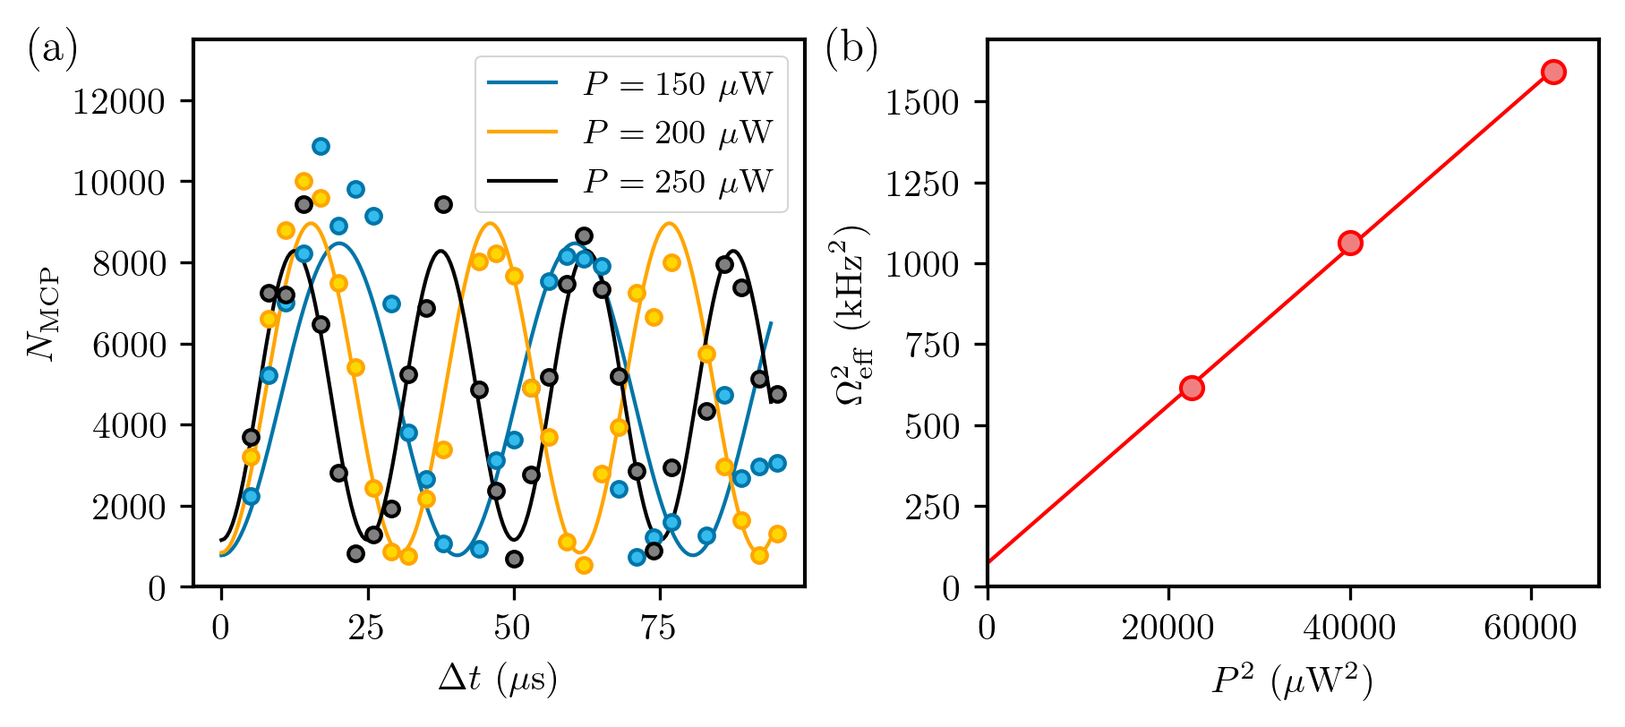
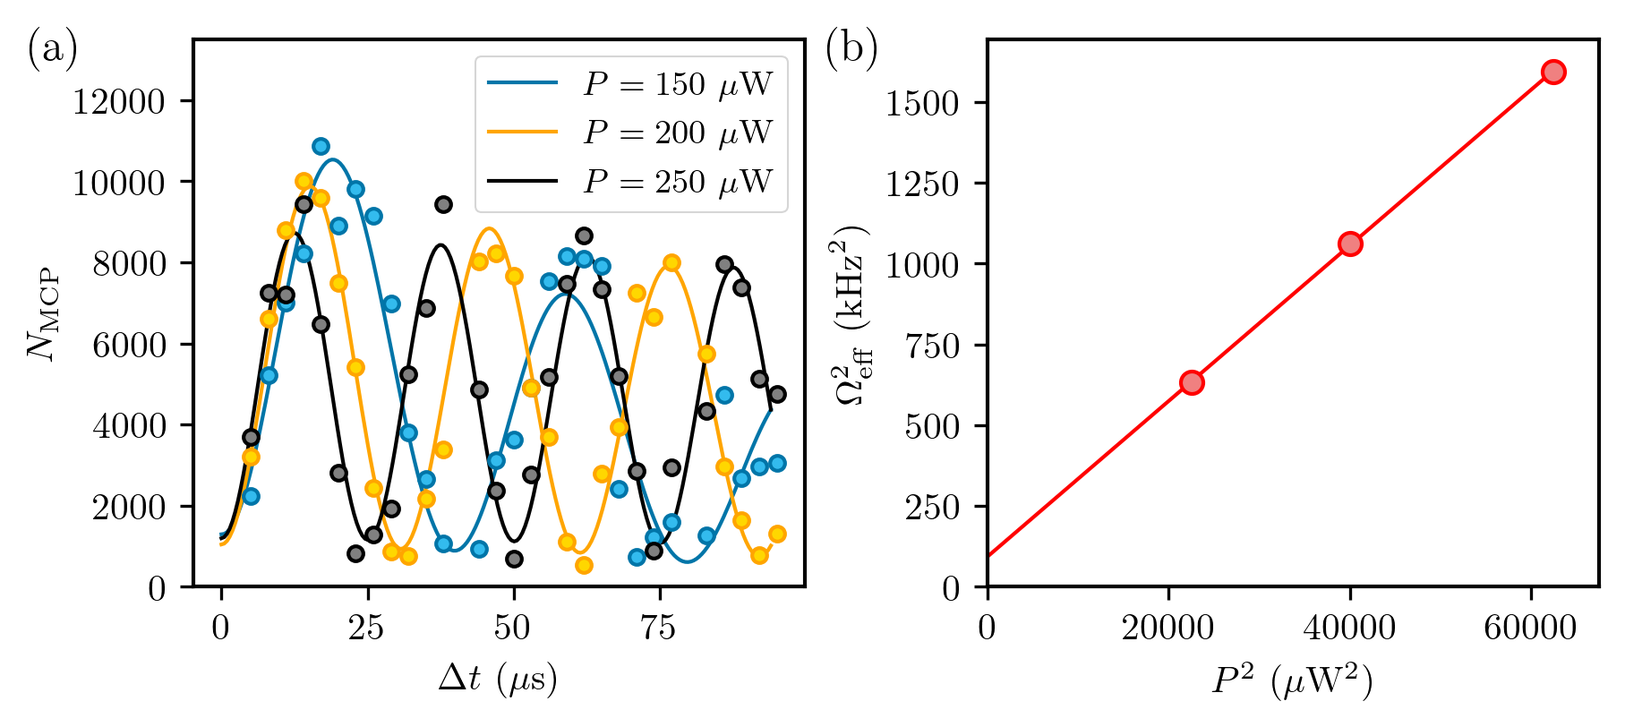
chapitre 3

diff --git a/Chapters/Chapter3_MomentumDistritbution_lattice_gas.tex b/Chapters/Chapter3_MomentumDistritbution_lattice_gas.tex
@@ -48,8 +48,8 @@ To begin the experimental sequence, we first need to excite Helium atoms in the 
 
 \begin{figure}
     \centering
-    \includegraphics[width=0.9\textwidth]{Fig/Chapter3/source.png}
-    \caption[Metastable helium source]{Metastable helium source. (a) Drawing of the source apparatus. Helium atoms (blue arrows) are sent into a glass tube glued into a pierced boron-nitride (BN) piece. A plasma forms between the high voltage needle and the grounded skimmer, exciting the atoms in the metastable state (red arrows). The boron nitride is cooled by thermal contact with a copper (Cu) piece in which liquid nitrogen flows, allowing to significantly reduce the speed of the atoms. (b) Photograph of the source apparatus. The red square illustrates what is represented on the drawing. \NOTE{fleche noire}}
+    \includegraphics[width=0.9\textwidth]{Fig/Chapter3/source_ok.png}
+    \caption[Metastable helium source]{Metastable helium source. (a) Drawing of the source apparatus. Helium atoms (blue arrows) are sent into a glass tube glued into a pierced boron-nitride (BN) piece. A plasma forms between the high voltage needle and the grounded skimmer, exciting the atoms in the metastable state (red arrows). The boron nitride is cooled by thermal contact with a copper (Cu) piece in which liquid nitrogen flows, allowing to significantly reduce the speed of the atoms. (b) Photograph of the source apparatus. The red square illustrates what is represented on the drawing.}
     \label{fig:source}
 \end{figure}
 
@@ -57,8 +57,8 @@ The source is a quite sensitive part of the experimental apparatus and was often
 
 \begin{itemize}
     \item The needle has the tendency to deteriorate over time. When this happens, some metallic particles fall from the needle and end up clogging the small hole in Boron-Nitride, preventing the atoms to flow through. We replaced the needle with a standard metallic cylinder, hoping that it would not deteriorate as fast. While we still could form the plasma without the needle shape, the cylinder still deteriorates, requiring regular operations every few months to unclog the Boron-Nitride piece.
-    \item The diameter of the Boron-Nitride piece needs to be very well adapted to the inner diameter of the copper piece to ensure a good thermal contact and to prevent the Boron-Nitride from moving when temperature changes. \NOTE{current plasma}
-    \item The glue holding the glass tube in the Boron-Nitride can contract at low temperatures and add mechanical constraints on the glass tube, sometimes breaking it and causing unwanted atom leakage. The solution is to use an ``elastic'' glue that can deform without adding too much stress on the tube. 
+    \item The diameter of the Boron-Nitride piece needs to be very well adapted to the inner diameter of the copper piece to ensure a good thermal contact and to prevent the Boron-Nitride from moving when temperature changes. This also helps to stabilize the current of the power supply to $\sim 11 \ \rm{mA}$ at which the plasma is much more stable.
+    \item The glue holding the glass tube in the Boron-Nitride can contract at low temperatures and add mechanical constraints on the glass tube, sometimes breaking it and causing unwanted atom leakage. The solution is to use an ``elastic'' glue that can deform when temperature changes without adding too much stress on the tube. 
 \end{itemize}
 
 We now move on the next experimental step, laser cooling.
@@ -66,7 +66,7 @@ We now move on the next experimental step, laser cooling.
 
 \subsection{Laser cooling}
 
-Our experimental cooling sequence uses two types of laser cooling: Doppler and sub-Doppler cooling. Doppler cooling revolves around the absorption of resonant, counter-propagating photons by a two-level atom, reducing its momentum. The absorbed photons are re-emitted spontaneously in a random direction of space, meaning that after a large number of absorption/emission cycles, the variation of momentum induced by spontaneous emission averages out. The only contribution is thus the one of absorption contributing to slow the atom down. The name Doppler cooling descends from the fact that the detuning $\delta$ of the laser beam is set to match the resonant condition $\delta = \bm{k} \cdot \bm{v}$ set by the Doppler effect, with $\bm{k}$ the momentum of the laser photons and $\bm{v}$ the speed of the atoms. This has the advantage that the atoms that have already been cooled cannot resonantly absorb photons anymore, preventing them from being re-heated. The lowest temperature accessible with Doppler cooling $T_{\rm{D}}$ is set by the number of absorption/emission cycles per unit of time, \ie by the linewidth of the excited state $\Gamma$ \cite{chang2014three}:
+Our experimental cooling sequence uses two types of laser cooling: Doppler and sub-Doppler cooling. Doppler cooling revolves around the absorption of resonant, counter-propagating photons by a two-level atom, reducing its momentum. The absorbed photons are re-emitted spontaneously in a random direction of space, meaning that after a large number of absorption/emission cycles, the variation of momentum induced by spontaneous emission averages out. The only contribution is thus the one of absorption contributing to slow the atom down. The name Doppler cooling descends from the fact that the detuning $\delta$ of the laser beam is set to compensate the Doppler effect $\delta = \bm{k} \cdot \bm{v}$, with $\bm{k}$ the momentum of the laser photons and $\bm{v}$ the speed of the atoms. This has the advantage that the atoms that have already been cooled cannot resonantly absorb photons anymore, preventing them from being re-heated. The lowest temperature accessible with Doppler cooling $T_{\rm{D}}$ is set by the number of absorption/emission cycles per unit of time, \ie by the linewidth of the excited state $\Gamma$ \cite{chang2014three}:
 
 \begin{equation}
     T_{\rm{D}} = \frac{\hbar \Gamma}{2 k_B}
@@ -395,7 +395,7 @@ There are therefore some wrongly reconstructed atoms that end up on $\pm 45^{\ci
 \begin{figure}
     \centering
     \includegraphics[width=0.6\textwidth]{Fig/Chapter3/saturation_cross.png}
-    \caption[Saturation cross]{Time integrated 2D MCP image illustrating the presence of a saturation cross at $\pm 45^{\circ}$. \NOTE{line}}
+    \caption[Saturation cross]{Time integrated 2D MCP image illustrating the presence of a saturation cross at $\pm 45^{\circ}$. The third ``line'' is not related to saturation effects and corresponds to evaporated atoms that can fall on the MCP at the same time than the BEC.}
     \label{fig:saturation_cross}
 \end{figure}
 
@@ -406,7 +406,7 @@ There are therefore some wrongly reconstructed atoms that end up on $\pm 45^{\ci
 
 As we have seen in the first sections of this chapter, the BEC is prepared in the magnetic-substate $m_J=1$. To make a proper measurement of the in-trap momentum of the atoms, it is absolutely crucial that their TOF trajectories are not perturbed, notably by interactions with magnetic fields. In that respect, it would be quite hard to shield the science chamber from every unwanted magnetic field on the large distance of $43 \ \rm{cm}$ on which we let the atoms fall to access the far-field regime of expansion. A solution to cancel these unwanted interactions is to transfer the atoms into the non-magnetic sub-state $m_J=0$. All non-transferred atoms are then removed by applying a strong magnetic gradient so that they do not reach the MCPs.
 
-When I started my PhD, the preferred method was to use a magnetic field bias to separate the different sub-states with the Zeeman effect and then drive the transition between $m_J=1$ and $m_J=0$ with a RF wave within the lowest-energy manyfold \cite{carcy_these,cayla_these}. However, the energy difference between the sub-states $m_J=1$ and $m_J=0$ and $m_J=0$ and $m_J=-1$ is the same. We therefore have a 3-level system with two resonant transitions and can only achieve a $50\%$ population transfer to $m_J=0$. This has a strong consequence: only half of the atoms at maximum can reach the detector, thus reducing the detection efficiency by a factor 2. This is particularly harmful for correlation measurements such as \kmk pairing as we need to detect the two atoms of the pair: losing a factor on the detection efficiency reduces the probability to detect a \kmk pair by a factor $2^2=4$. This calls to change the transfer scheme to achieve a $100\%$ (or close to) population transfer to the $m_J=0$ state.
+When I started my PhD, the preferred method was to use a magnetic field bias to separate the different sub-states with the Zeeman effect and then drive the transition between $m_J=1$ and $m_J=0$ with a RF wave within the lowest-energy manyfold \cite{carcy_these,cayla_these}. However, the energy difference between the sub-states $m_J=1$ and $m_J=0$ and $m_J=0$ and $m_J=-1$ is the same. We therefore have a 3-level system with two resonant transitions and can only achieve a $50\%$ population transfer to $m_J=0$. This has a strong consequence: only half of the atoms at maximum can reach the detector, thus reducing the detection efficiency by at least a factor 2. Even worse, the effective Rabi frequencies were limited by the highest accessible RF powers in our experiment. The pulse duration corresponding to the maximum transfer efficiency was then too large so that the transfer was perturbed by fluctuations of the magnetic field, forcing us to work with shorter pulse and therefore lower detection efficiencies. This is particularly harmful for correlation measurements such as \kmk pairing as we need to detect the two atoms of the pair: losing a factor $\alpha$ on the detection efficiency reduces the probability to detect a \kmk pair by a factor $\alpha^2$. This calls to change the transfer scheme to achieve a $100\%$ (or close to) population transfer to the $m_J=0$ state.
 
 To do so, we use an optical transfer scheme, a two-photon Raman transfer. While this was used on our experiment a few years back on the $2 \ ^3 S_1 \rightarrow 2 \ ^3 P_1$, it was abandoned as spontaneous emission effects were perturbing the measured momentum distribution to sufficiently high levels, harming the measurements conducted at the time. Nevertheless, our goal to detect \kmk pairs motivated us to build the required setup, with the notable addition of a third laser source allowing us to address the remaining transition $2 \ ^3 S_1 \rightarrow 2 \ ^3 P_0$, better suited for Raman transfer as we will later see.
 
@@ -417,25 +417,45 @@ To do so, we use an optical transfer scheme, a two-photon Raman transfer. While 
 
 % Raman scattering is an inelastic scattering process of a photon by an atom resulting in a modification of the internal state of the atom. 
 
-To understand what two-photon Raman transfer is, let us consider a lambda level structure with two ground states $\ket{g_1}$,$\ket{g_2}$ and one excited state $\ket{e}$ (see Fig.-\ref{fig:raman_level}). Raman scattering is an inelastic process in which the atom absorbs a first photon of frequency $\omega_1$ and re-emits a photon of frequency $\omega_2$, changing its internal state from $\ket{g_1}$ to $\ket{g_2}$. The absorbed photon is called the \textbf{pump} photon and the emitted one the \textbf{Stokes} photon. The energy difference between the absorbed and scattered photons corresponds to the energy difference $\Delta E$ between the two states $\ket{g_1}$ to $\ket{g_2}$. If the modes $\omega_1$ and $\omega_2$ are populated, for instance if we shine laser light on the atom at these two frequencies, the process can be stimulated as the probability to emit a photon in a given mode is more likely the more photons there are in the mode. It is therefore possible exploit this effect to realize a population transfer from the state $\ket{g_1}$ to the state $\ket{g_2}$.
+To understand what two-photon Raman transfer is, let us consider a lambda level structure with two ground states $\ket{g_1}$,$\ket{g_2}$ and one excited state $\ket{e}$ (see Fig.-\ref{fig:raman_level}). Raman scattering is an inelastic process in which the atom absorbs a first photon of frequency $\omega_1$ and re-emits a photon of frequency $\omega_2$, changing its internal state from $\ket{g_1}$ to $\ket{g_2}$. The absorbed photon is called the \textbf{pump} photon and the emitted one the \textbf{Stokes} photon. This process is resonant when the energy difference between the absorbed and scattered photons corresponds to the energy difference $\Delta E$ between the two states $\ket{g_1}$ to $\ket{g_2}$. If the modes $\omega_1$ and $\omega_2$ are populated, for instance if we shine laser light on the atom at these two frequencies, the process can be stimulated as the probability to emit a photon in a given mode is more likely the more photons there are in the mode. It is therefore possible exploit this effect to realize a population transfer from the state $\ket{g_1}$ to the state $\ket{g_2}$.
 
 % If the two lasers are not copropagating, this method can be used to to transfer momentum to the atoms and change their trajectory. As this is not something we want to do, we use to copropagating laser beams.
 
 \begin{figure}
     \centering
     \includegraphics[width=\textwidth]{Fig/Chapter3/raman_level.png}
-    \caption[Lambda level structure for two-photon Raman transfer]{Lambda level structure in which a two-photon Raman transfer can be used to transfer atoms from $\ket{g_1}$ to $\ket{g_2}$. \NOTE{ajouter RF}}
+    \caption[Lambda level structure for two-photon Raman transfer]{Lambda level structure in which a two-photon Raman transfer can be used to transfer atoms from $\ket{g_1}$ to $\ket{g_2}$.}
     \label{fig:raman_level}
 \end{figure}
 
+In the rotating wave approximation \cite{shore1996theory}, the 3-level Hamiltonian can be written in the $\{\ket{g_1},\ket{g_2},\ket{e} \}$ basis as:
 
-Importantly, the detuning $\Delta=(\omega_{e}-\omega_{g_1})-\omega_1=(\omega_{e}-\omega_{g_2})-\omega_2$ (see Fig.-\ref{fig:raman_level}) must be large to avoid one photon absorption, {\it i.e.} population of the excited state and spontaneous emission. In these conditions, the excited level can be adiabatically eliminated to describe the two-photon transfer as an effective two-level coupling between $\ket{g_1}$ and $\ket{g_2}$. The system then undergoes well-known Rabi oscillations of frequency:
+\begin{equation}
+    \hat{H}_{\text{3-level}} = \hbar \begin{pmatrix}
+    0 & 0 & \Omega_1/2 \\
+    0 & -\delta_{\rm{2p}} & \Omega_2/2 \\
+    \Omega_1/2 & \Omega_2/2 & - \Delta \\
+    \end{pmatrix}
+\end{equation}
+
+\noindent where $\Omega_1$ and $\Omega_2$ are the Rabi frequencies associated to laser fields 1 and 2, $\Delta = (\omega_{e}-\omega_{g_1})-\omega_1$ and $\delta_{\rm{2p}}=(\omega_{g_2} - \omega_{g_1}) - (\omega_2-\omega_1)$ (see Fig.-\ref{fig:raman_level}). Importantly, $\Delta$ must be large to avoid one photon absorption, {\it i.e.} population of the excited state and spontaneous emission. In these conditions, the excited level can be adiabatically eliminated to describe the two-photon transfer as an effective two-level coupling between $\ket{g_1}$ and $\ket{g_2}$. The corresponding Hamiltonian writes:
+
+\begin{equation}
+    \hat{H}_{\rm{eff}} = \begin{pmatrix}
+    0 & \Omega_{\rm{2p}} \\
+    \Omega_{\rm{2p}} & -\delta' \\
+    \end{pmatrix}
+\end{equation}
+
+\noindent with $\Omega_{\rm{2p}}=\frac{\Omega_1 \Omega_2}{2 \Delta}$ and $\delta'=\delta + (\Omega_1^2-\Omega_2^2)/4\Delta \approx \delta$.
+
+\noindent From this expression, we use the well-known results of Rabi oscillations \cite{cohen1986mecanique} to get the effective Rabi frequency:
 
 \begin{equation}
     \Omega_{\rm{eff}}= \sqrt{\frac{\Omega_1^2 \Omega_2^2}{4 \Delta^2} + \delta_{\rm{2p}}^2}
 \end{equation}
 
-\noindent where $\Omega_1$ and $\Omega_2$ are the Rabi frequencies associated to laser fields 1 and 2 and $\delta_{\rm{2p}}$ is the detuning to the two-photon resonance condition $\delta_{\rm{2p}}=(\omega_{g_2} - \omega_{g_1}) - (\omega_2-\omega_1)$. The maximum transfer efficiency is the ratio $\eta_{\rm{2p}}=\Omega_{\rm{2p}}^2 /\Omega^2_{\rm{eff}}$ where $\Omega_{\rm{2p}}=\frac{\Omega_1 \Omega_2}{2 \Delta}$ is the effective two-photon Rabi frequency. For $\delta_{\rm{2p}}=0$, we get $\eta_{\rm{2p}}=1$ meaning that it is possible to transfer the entire population of $\ket{g_1}$ to $\ket{g_2}$.
+\noindent and that maximum transfer efficiency is the ratio $\eta_{\rm{2p}}=\Omega_{\rm{2p}}^2 /\Omega^2_{\rm{eff}}$. For $\delta_{\rm{2p}}=0$, we get $\eta_{\rm{2p}}=1$ meaning that it is possible to transfer the entire population of $\ket{g_1}$ to $\ket{g_2}$.
 
 
 
@@ -445,7 +465,7 @@ To implement the two-photon Raman transfer, we use the transition $2 \ ^3 S_1 \r
 
 \begin{figure}
     \centering
-    \includegraphics[width=0.7\textwidth]{Fig/Chapter3/raman_sc.png}
+    \includegraphics[width=\textwidth]{Fig/Chapter3/raman_sc.png}
     \caption{Implementation of the two-photon Raman transfer with $^4 \rm{He}^*$.}
     \label{fig:raman_He}
 \end{figure}
@@ -496,13 +516,13 @@ In order to check that the two-photon Raman transfer is working as intended, we 
 \begin{figure}
     \centering
     \includegraphics[width=\textwidth]{Fig/Chapter3/rabi_flop.png}
-    \caption[Rabi oscillations with two-photon Raman transfer]{Rabi oscillations with two-photon Raman transfer. (a) Rabi oscillations at various beam power. $P$ is the power of the Stokes beam measured before the fiber linking the optical table to the experiment. (b) Square Rabi frequencies $\Omega^2_{\rm{eff}}$ as a function of the square power P (the power of the Stokes and pump beams are set to be the same). We obtain a linear relation with a small offset that might come from a slight miscalibration of the two-photon resonance.}
+    \caption[Rabi oscillations with two-photon Raman transfer]{Rabi oscillations with two-photon Raman transfer. (a) Rabi oscillations at various beam power. $P$ is the power of the Stokes beam measured before the fiber linking the optical table to the experiment. The solid fines correspond to a square sine function fit with an overall exponential decay. (b) Square Rabi frequencies $\Omega^2_{\rm{eff}}$ as a function of the square power P (the power of the Stokes and pump beams are set to be the same). We obtain a linear relation with a small offset that might come from a slight miscalibration of the two-photon resonance.}
     \label{fig:rabi_flop}
 \end{figure}
 
-Measuring Rabi oscillations is the second part of the procedure to properly set up the two-photon Raman transfer prior to data taking. We set the power of the beams so that the maximum of the first Rabi oscillation corresponds to a pulse duration $t_{\rm{Rabi}} \simeq 10 \ \mu \rm{s}$ and measure a few Rabi oscillations to check it experimentally. This time is chosen to be as short as possible within the resolution of our sequencer so that the transfer efficiency is not sensitive to the fluctuations of the magnetic field as well as its inhomogeneity. Indeed, the bias field that we produce is not perfect, resulting in the presence of a small gradient of $0.17 \ \rm{G/cm}$. If the transfer takes too much time to complete, the atoms have time to travel on a significant distance so that they might see different values of the magnetic field, hence changing the two-photon resonance condition and reducing the overall transfer efficiency.
+Measuring Rabi oscillations is the second part of the procedure to properly set up the two-photon Raman transfer prior to data taking. We set the power of the beams so that the maximum of the first Rabi oscillation corresponds to a pulse duration $t_{\rm{Rabi}} \simeq 10 \ \mu \rm{s}$ and measure a few Rabi oscillations to check it experimentally. This time is chosen to be as short as possible with respect to the elementary coding step of our sequencer for two purposes. First, the transfer is less sensitive to fluctuations of the magnetic field for shorter pulse times. Second, the bias field that we produce is not perfect, resulting in the presence of a small gradient of $0.17 \ \rm{G/cm}$. If the transfer takes too much time to complete, the atoms have time to travel on a significant distance so that they might see different values of the magnetic field, hence changing the two-photon resonance condition and reducing the overall transfer efficiency.
 
-\NOTE{reprendre ici}
+
 
 \subsection{Measurement of the detection efficiency}
 
@@ -522,11 +542,11 @@ To circumvent these issues, we will then work with a BEC but deliberately use th
     \item We first need to pinpoint very precisely where the two-photon resonance is. To do so, we measure the frequency of Rabi oscillations $\Omega_{\rm{eff}}$ with a dilute gas for different values of the frequency difference $\Delta \nu$ between the Stokes and the pump beam close to the two-photon resonance condition. At this point, we do not care about the amplitude of the Rabi oscillations but only their frequency. Using $\Omega_{\rm{eff}}= \sqrt{\Omega_{2p}^2 + \delta_{\rm{2p}}^2}$, we fit the experimental data to find the value of $\Delta \nu$ where $\Omega_{\rm{eff}}$ is minimum which corresponds to the two-photon resonance as illustrated on Fig.-\ref{fig:eff_MCP} panel (a).
     \item We prepare a BEC of $\NBEC = 2 \times 10^5$ atoms that we calibrate with absorption imaging.
     \item We set the power of the Raman beams to have $\Omega_{\rm{2p}}=20 \ \rm{kHz}$.
-    \item We measure Rabi oscillations for various values of $\delta_{\rm{2p}} \in [300,1000] \ \rm{kHz}$ and extract the amplitude of the square sine function $N^{\rm{max}}_{\rm{MCP}}$.
+    \item We measure Rabi oscillations for various values of $\delta_{\rm{2p}} \in [300,1000] \ \rm{kHz}$ and extract the amplitude of the square sine function $N^{\rm{max}}_{\rm{MCP}}$. We typically transfer $\sim 1\%$ of the atoms. 
     \item We plot $N^{\rm{max}}_{\rm{MCP}}$ versus $\NBEC \left(\frac{\Omega_{2 p}}{\Omega_{\rm{eff}}}\right)^{2}$. We fit the data with a linear function and deduce the value of $\alpha_{\rm{MCP}}$ from the slope of the fit as illustrated on Fig.-\ref{fig:eff_MCP} panel (b).
 \end{enumerate}
 
-\noindent The final measured value is \fcolorbox{red}{white}{$\alpha_{\rm{MCP}}=0.53(2)$}. As mentioned earlier, the open-to-air ratio of the MCPs is around $\simeq 90 \%$, meaning that almost all atoms fall in a channel, thus not limiting the detection efficiency. However, the first extracted electron has roughly a 1/2 probability to be ejected upwards outside of the channel, rendering the amplification process impossible, explaining why we observe a detection efficiency of the order of $50 \%$.
+\noindent The final measured value is \fcolorbox{red}{white}{$\alpha_{\rm{MCP}}=0.53(2)$}. As mentioned earlier, the open-to-air ratio of the MCPs is around $\simeq 90 \%$, meaning that almost all atoms fall in a channel, thus not limiting the detection efficiency. However, the first extracted electron has roughly a 1/2 probability to be ejected upwards outside of the channel, rendering the amplification process impossible, providing us with rough estimate of detection efficiency of the order of $50 \%$.
 
 \begin{figure}
     \centering
@@ -561,7 +581,7 @@ The crucial point of the preparation of an equilibrium state of the Bose-Hubbard
     \label{fig:loading}
 \end{figure}
 
-In order to optimize these parameters, the atoms are loaded back in the ODT with a symmetrical sequence to look for atom losses and heating effects to be minimized as illustrated on Fig-\ref{fig:lattice_up_and_down}. This technique has the advantage of being convenient and rather simple, but is not at all sufficient to prove that the loading is adiabatic. We tried using linear and exponential ramps and found that it did not make a difference \cite{carcy_these}. We then settled for the simple linear ramps, corresponding to an almost exponential increase of $s$ (see Fig-\ref{fig:U_J_vs_s}). Their slope was set to $0.3 \ E_{\rm{r}}/\rm{ms}$ and remains constant no matter the final target value of $s$, only the ramp time changes. The optimal values of the other ramp parameters were found to be \fcolorbox{red}{white}{$t_{\rm{down}}=22 \ \rm{ms}$} and \fcolorbox{red}{white}{$t_{\rm{delay}}= 0 \ \rm{ms}$}. With these parameters, we observe typical losses of $15 \%$ of the total atom number that we attribute to the not perfect overlap between the ODT and the lattice, but no heating. \NOTE{which energy}
+In order to optimize these parameters, the atoms are loaded back in the ODT with a symmetrical sequence to look for atom losses and heating effects to be minimized as illustrated on Fig-\ref{fig:lattice_up_and_down}. This technique has the advantage of being convenient and rather simple, but is not at all sufficient to prove that the loading is adiabatic. We tried using linear and exponential ramps and found that it did not make a difference \cite{carcy_these}. We then settled for the simple linear ramps, corresponding to an almost exponential increase of $s$ (see Fig-\ref{fig:U_J_vs_s}). Their slope was set to $0.3 \ E_{\rm{r}}/\rm{ms}$ and remains constant no matter the final target value of $s$, only the ramp time changes. The optimal values of the other ramp parameters were found to be \fcolorbox{red}{white}{$t_{\rm{down}}=22 \ \rm{ms}$} and \fcolorbox{red}{white}{$t_{\rm{delay}}= 0 \ \rm{ms}$}. With these parameters, we observe typical losses of $15 \%$ of the total atom number that we attribute to the not perfect overlap between the ODT and the lattice, the lost atoms carrying the extra kinetic energy obtained during the imperfect transfer, but no heating. 
 
 \begin{figure}
     \centering
@@ -592,9 +612,7 @@ The temperature of the gas cannot be extracted directly from the density $\rho(\
     \label{fig:comp_qmc}
 \end{figure}
 
-Importantly, these kind of measurements are possible thanks to the 3D single atom resolution of our experimental apparatus. Detecting the momentum of each individual allows us to reconstruct the full momentum distribution and in turn the momentum density \NOTE{a voir}
-
-This allows to measure the momentum distribution for low atoms numbers $N \simeq 3,000$ for which QMC calculations are possible down to low temperatures, while providing a great precision on the measurement of $\rho(\bm{k})$ without any line-of-sight integration contrary to optical imaging.
+Importantly, these kind of measurements rely on two specific points of our experiment linked to our 3D single atom resolution. Firstly, we can measure the full 3D momentum density $\rho(\bm{k})$ without any line-of-sight integration and thus characterize it with the finest level of details. Secondly, we are able to detect low densities signal and thus work with low atoms numbers $N \simeq 3,000$ for which QMC calculations are possible down to low temperatures.
 
 We show on Fig.-\ref{fig:chi_vs_T} plots of $\chi_{\mathrm{r}}^{2}(T_J)$ as a function of the temperature of the QMC calculations at $u=30$, where $T_J$ is the reduced temperature $T_J = \kB T /J$. We observe a clear minimum that indicates the temperature in the experiment. Interestingly, the minimum value $\chi_{\mathrm{r}}^{2}\left(T_{J}=2.4\right)=3.6 \pm 3.0$ is compatible with unity, meaning that the QMC calculations indeed reproduce the experimental data within the statistical uncertainty. We fit the data with a parabolic profile to identify the position of the minimum. The error on the fit gives us an estimate of the minimal error on the evaluation of the temperature with this technique that can be linked to the notion of Fisher information that we will see in the next paragraph. Note however that in order not to rely on a fit for every data sets, we will estimate the error bars by determining the temperature interval over which distinct values of $\chi_{\mathrm{r}}^{2}$ are observed.
 
@@ -618,7 +636,7 @@ We plot on Fig-\ref{fig:T_vs_u} panel (a) the extracted values of $T_J$ (T in un
 
 The value of the entropy is obtained from the QMC calculations giving the average energy by particle $e(T)$ for various values of the temperature. The energy is then fitted with a high-order polynomial function to compute the specific heat $c(T)=\mathrm{d} e(T) / \mathrm{d} T$ and finally the entropy $S(T) / N=\int_{0}^{T} d \theta c(\theta) / \theta$. The values of the entropy are shown in Fig-\ref{fig:T_vs_u} in false colors. The light white lines represent isoentropic lines. We see that all experimental points are compatible with the isentropic curves spanning the entropy range $S/N= 0.8(1) \ \kB$. These observations are consistent with our assumption that the lattice ramps create a series of thermal equilibrium states that we go through adiabatically conserving the entropy, thus certifying the experimental adiabatic preparation of equilibrium states of the 3D Bose-Hubbard model.
 
-How can we understand the evolution of the isoentropic curve with $u$? For the moderate entropy values of the experiment, we observe two asymptotic regimes, the superfluid regime ($u \leq 25$) in which the isoentropic curves grow slowly with $u$, and the Mott insulator regime in which the isoentropic curves grow more rapidly. At low values of $u$, the growth can be understood with Bogoliubov theory. As seen in Chapter \ref{sec:chapter_1}, the speed of sound depends on the strength of the interactions and therefore increases with $u$ ($c \propto \sqrt{u}$), decreasing the density of states. The temperature dependence of the entropy is then $\sim T^3/u^2$ so that the isoentropic curves $S/\NBEC \kB =s_0$ should grow as $T \sim s_{0}^{1 / 3} u^{2 / 3}$ \NOTE{ref} (this holds for the homogeneous case and low energies in which the dispersion relation is phononic). On the other hand, in the Mott insulator regime, the entropy writes $S/\NBEC \kB \sim \exp(-\Delta/T)$ where $\Delta \sim u$ is the Mott Insulator gap, giving $T \sim u$ along the isoentropic curves. Explaining the plateau linking the two asymptotic regimes would require a more detailled study that falls out of the scope of this thesis and will be the subject of future works.
+How can we understand the evolution of the isoentropic curve with $u$? For the moderate entropy values of the experiment, we observe two asymptotic regimes, the superfluid regime ($u \leq 25$) in which the isoentropic curves grow slowly with $u$, and the Mott insulator regime in which the isoentropic curves grow more rapidly. At low values of $u$, the growth can be understood with Bogoliubov theory. As seen in Chapter \ref{sec:chapter_1}, the speed of sound depends on the strength of the interactions and therefore increases with $u$ ($c \propto \sqrt{u}$), decreasing the density of states. The temperature dependence of the entropy is then $\sim T^3/u^2$ \cite{ho2007intrinsic} so that the isoentropic curves $S/\NBEC \kB =s_0$ should grow as $T \sim s_{0}^{1 / 3} u^{2 / 3}$  (this holds for the homogeneous case and low energies in which the dispersion relation is phononic). On the other hand, in the Mott insulator regime, the entropy writes $S/\NBEC \kB \sim \exp(-\Delta/T)$ where $\Delta \sim u$ is the Mott Insulator gap, giving $T \sim u$ along the isoentropic curves \cite{gerbier2007boson}. Explaining the plateau linking the two asymptotic regimes would require a more detailled study that falls out of the scope of this thesis and will be the subject of future works.
 
 
 In addition, we measure the entropy per particle in the BEC before loading it into the lattice $S_0/\NBEC \kB$ to see if it matches the entropy measured in the lattice. To evaluate $S_0$, we use the relation for the approximation of a non-interacting, partially-condensed Bose gas in a harmonic trap \cite{pitaevskii2016bose}:
@@ -791,7 +809,7 @@ In addition, we plot the probability of collision per atom $\eta_1=N_{\rm{coll}}
 \begin{figure}
     \centering
     \includegraphics[width=\textwidth]{Fig/Chapter3/ncoll_vs_atom_number.png}
-    \caption[Experimental number of collisions and probability of collision per atom as a function of the atom number]{(a) Experimental number of collisions $N_{\rm{coll}}^{\rm{exp}}$ between the copies $j=0$ and $j=1$ as a function of the atom number $\NBEC$ at a fixed lattice amplitude $s=5$. The dashed line is the analytical model of equation \ref{eq:analytical_model}. (b) Probability of collision per atom $\eta_1=N_{\rm{coll}}^{\rm{exp}}/N_{\rm{bec}}$. \NOTE{faire inset}}
+    \caption[Experimental number of collisions and probability of collision per atom as a function of the atom number]{(a) Experimental number of collisions $N_{\rm{coll}}^{\rm{exp}}$ between the copies $j=0$ and $j=1$ as a function of the atom number $\NBEC$ at a fixed lattice amplitude $s=5$. The dashed line is the analytical model of equation \ref{eq:analytical_model}. (b) Probability of collision per atom $\eta_1=N_{\rm{coll}}^{\rm{exp}}/N_{\rm{bec}}$. The inset shows a zoom for low atom numbers.}
     \label{fig:ncoll_vs_atom_number}
 \end{figure}
 
@@ -808,13 +826,12 @@ In addition, we plot the probability of collision per atom $\eta_1=N_{\rm{coll}}
 
 \subsection{Conclusion}
 
-Now that we have validated that our simple model properly works for low atom number, we can extrapolate the probability of collision per atom for the typical atom numbers (a few $10^3$) that we wish to use for the \kmk correlation experiment. For $\NBEC \sim 5 \times 10^3$, we find as shown on panel (b) of Fig-\ref{fig:ncoll_vs_atom_number} that the probability for an atom to collide during the TOF is $\eta_1 \sim 10^{-4}$ which is extremely low. Before reaching our final conclusion, we need to discuss the contribution of other possible scattering halos, such as the one involving higher order copies $j \geq 2$ or between two first order copies. These halos are more diluted because of a lower number of collisions and larger volume and are in turn not visible in the experiment, but might contribute significantly at high values of $s$. We can evaluate their contribution by setting the appropriate values of $\alpha_j$ in equation $\ref{eq:analytical_model}$. We obtain an upper bound by considering the extreme situation where the number of copies would be as large as the number of atoms and find that this increases $\eta_1$ by only a factor 3, meaning that the measured probability $\eta_1$ gives a good estimate of the total probability of collisions. We can therefore safely conclude that two-body collisions will be negligible in our \kmk pair experiment where only a few $10^3$ atoms are loaded into the 3D lattice. This results completes the previous benchmarking experiments \cite{cayla2018single}, proving that the ballistic relation applies in our experiment.
+Now that we have validated that our simple model properly works for low atom number, we can extrapolate the probability of collision per atom for the typical atom numbers (a few $10^3$) that we wish to use for the \kmk correlation experiment. For $\NBEC \sim 5 \times 10^3$, we find as shown on the inset of panel (b) of Fig-\ref{fig:ncoll_vs_atom_number} that the probability for an atom to collide during the TOF is $\eta_1 \sim 10^{-3}$ which is extremely low. Before reaching our final conclusion, we need to discuss the contribution of other possible scattering halos, such as the one involving higher order copies $j \geq 2$ or between two first order copies. These halos are more diluted because of a lower number of collisions and larger volume and are in turn not visible in the experiment, but might contribute significantly at high values of $s$. We can evaluate their contribution by setting the appropriate values of $\alpha_j$ in equation $\ref{eq:analytical_model}$. We obtain an upper bound by considering the extreme situation where the number of copies would be as large as the number of atoms and find that this increases $\eta_1$ by only a factor 3, meaning that the measured probability $\eta_1$ gives a good estimate of the total probability of collisions. We can therefore safely conclude that two-body collisions will be negligible in our \kmk pair experiment where only a few $10^3$ atoms are loaded into the 3D lattice. This results completes the previous benchmarking experiments \cite{cayla2018single}, proving that the ballistic relation applies in our experiment.
 
 \section{Conclusion}
 
-We have seen in this chapter how metastable Helium $^4 \He$ can be brought to quantum degeneracy and how to make use of the properties of the metastable state to implement a 3D single atom resolved momentum detection technique. Importantly, the population transfer method to decouple the atoms from the magnetic field before the TOF was improved by replacing the former RF transfer by an optical two-photon Raman transfer, improving the detection efficiency by a factor 2. This improvement is of primary importance for \kmk correlations measurement as it enhances the probabilty to detect a \kmk pair by a factor 4. Finally, we have certified our ability to adiabatically prepare the gas in the optical lattice in the vicinity of the Mott transition and studied the effects of TOF $s$-wave two body collisions to ensure that the momentum distribution is not perturbed during the TOF at the single atom level, so that the measured distribution indeed reveals the in-trap distribution. All the lights are then green to proceed with the actual measurement of \kmk correlations as we will now see.
+We have seen in this chapter how metastable Helium $^4 \He$ can be brought to quantum degeneracy and how to make use of the properties of the metastable state to implement a 3D single atom resolved momentum detection technique. Importantly, the population transfer method to decouple the atoms from the magnetic field before the TOF was improved by replacing the former RF transfer by an optical two-photon Raman transfer with two advantages: (1) contrary to the RF transfer where the transfer efficiency is limited to $50 \%$ because of the three sub-levels structure of the $2 ^3 S_1$ state, we can achieve full population transfer with two-photon Raman transfer, (2) we can reach much higher effective Rabi frequencies and use shorter pulse durations for which the transfer is unaffected by fluctuations of the magnetic field. We thus improved the detection efficiency by more than a factor $\sim 4$. This improvement is of primary importance for \kmk correlations measurement as it enhances the probabilty to detect a \kmk pair by a factor 16. Finally, we have certified our ability to adiabatically prepare the gas in the optical lattice in the vicinity of the Mott transition and studied the effects of TOF $s$-wave two body collisions to ensure that the momentum distribution is not perturbed during the TOF at the single atom level, so that the measured distribution indeed reveals the in-trap distribution. All the lights are then green to proceed with the actual measurement of \kmk correlations as we will now see.
 
-\NOTE{finir}
 
 
 
